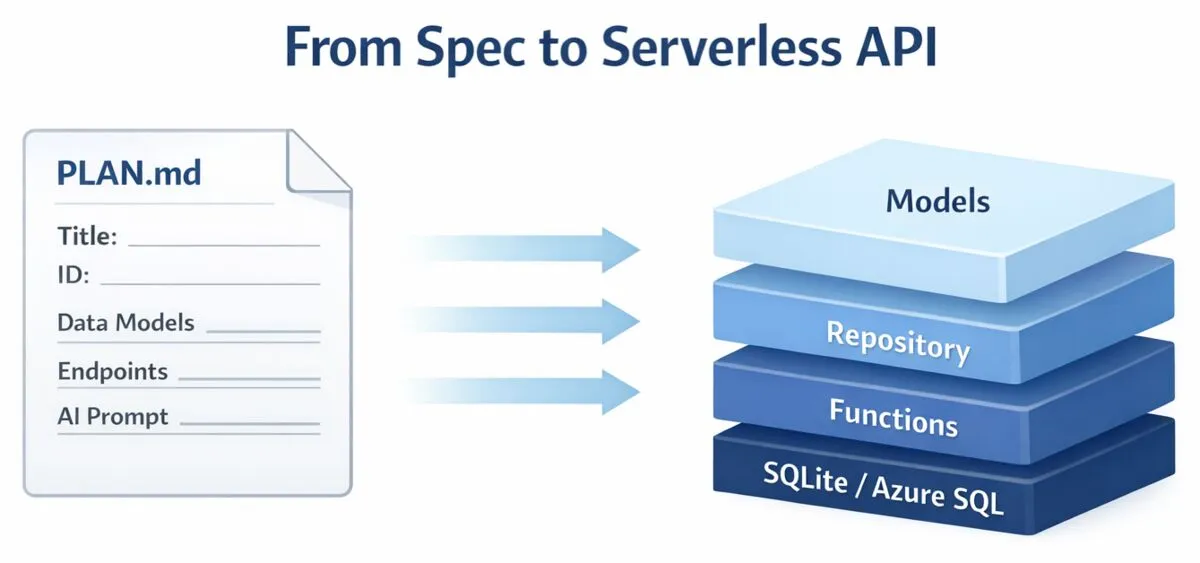
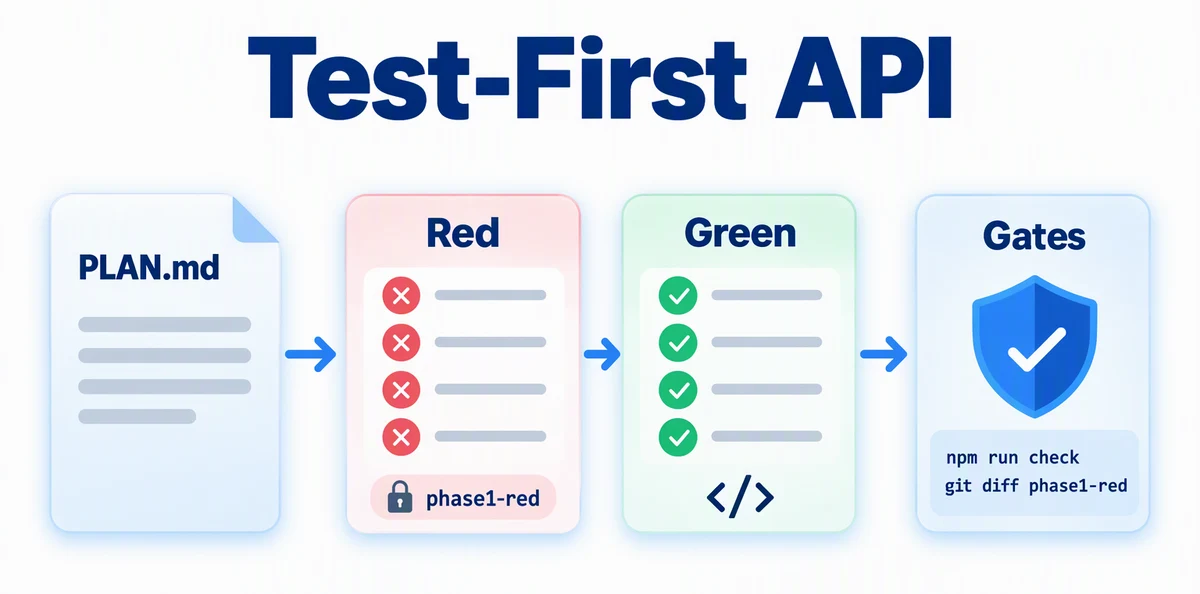
SmartTodo README: add journey loop, stacked PRs, knowledge ladder, and factory images
- Replace the text loop and stack diagrams with images
- New test-first Phase 1 banner (the old one showed SQLite locally)
- Phase 4 banner for the factory; knowledge ladder replaces the table

diff --git a/journeys/smart-todo/README.md b/journeys/smart-todo/README.md
@@ -94,9 +94,9 @@ SmartTodo is defined by a small set of linked plans. The agent reads them, and e
 
 Every phase runs the same loop:
 
-```text
-issue ─► grill the plan ─► red: failing tests ─► green: code ─► gates ─► review ─► merge
-```
+<p align="center">
+  <img src="./images/journey-loop.webp" alt="One loop, every phase: Issue, Grill the Plan, Red: Failing Tests, Green: Code, Gates, Review, Merge, and back to the next issue. The tests stay frozen between red and green." width="800" />
+</p>
 
 | You | The agent |
 | --- | --- |
@@ -128,9 +128,9 @@ Prompts that say "Use the tdd-builder agent" or "Use the grill-plan skill" load 
 
 **Phases 1 to 3 are one stack of pull requests.** They depend on each other, so they ship as a [GitHub stack](./PLAN.md#stacked-pull-requests):
 
-```text
-main ← phase-1-api ← phase-2-ios ← phase-3-azure
-```
+<p align="center">
+  <img src="./images/stacked-prs.webp" alt="One stack, one merge: Phase 1: API, Phase 2: iOS app, and Phase 3: Azure are stacked pull requests on top of main. One gh stack merge lands them as three commits on main." width="700" />
+</p>
 
 Each pull request shows only its own phase's changes, and you can start the next phase while the last one is in review. `gh stack` creates the layers, opens their pull requests, and merges them. Phase 4 uses ordinary pull requests.
 
@@ -218,7 +218,7 @@ Open the issues on GitHub. Note the numbers for Phase 1, 2, and 3. The prompts b
 ## Phase 1: Build the API Test-First
 
 <p align="center">
-  <img src="./images/phase1-api.webp" alt="Phase 1: Building the API" width="800" />
+  <img src="./images/phase1-api.webp" alt="Test-first API: PLAN.md becomes failing tests locked at the phase1-red tag, then code that turns them green, then gates: npm run check and git diff phase1-red" width="800" />
 </p>
 
 You'll build the Azure Functions API with Node.js and TypeScript. Locally, it uses an in-memory store and a fake AI generator, so this phase needs no database, no AI key, and no Azure resources.
@@ -566,13 +566,11 @@ Get the URL with `azd env get-value API_URL`, set `Config.apiBaseURL` to it, and
 
 **💡 What you're learning:** Knowledge moves up a ladder as it proves itself:
 
-| Form | Cost per use | Same result every time? |
-| --- | --- | --- |
-| A prompt | AI credits and your attention | No |
-| A skill (`SKILL.md`) | AI credits | More often, because the agent starts with the lessons |
-| A script (`scaffold-infra.mjs` + `check-infra.mjs`) | Free, in seconds | Yes |
+<p align="center">
+  <img src="./images/knowledge-ladder.webp" alt="Prompt, Skill, Script: a prompt discovers how to do something and costs AI credits and attention; a skill (SKILL.md) repeats it well and still costs AI credits; a script (scaffold-infra.mjs and check-infra.mjs) is free and deterministic" width="650" />
+</p>
 
-Use a prompt to discover how to do something, a skill to repeat it well, and a script once the result stops changing.
+Use a prompt to discover how to do something. It costs AI credits and your attention, and the result varies. A skill (`SKILL.md`) repeats it well, because the agent starts with the lessons. A script (`scaffold-infra.mjs` and `check-infra.mjs`) is free, runs in seconds, and gives the same result every time, so use one once the result stops changing.
 
 ### Step 7: Ship 🐙
 
@@ -597,6 +595,10 @@ gh stack sync --prune
 ---
 
 ## Phase 4: Build the Factory
+
+<p align="center">
+  <img src="./images/phase4-factory.webp" alt="The factory: an issue goes to the Copilot cloud agent, which opens a draft pull request and runs CI and review on its own. You verify on Azure and decide whether to merge." width="800" />
+</p>
 
 You ran the same loop three times by hand: issue, interview, red, green, gates, review, merge. Now you'll write that loop down so the next feature runs through it without you driving every step. Phase 4 uses ordinary pull requests, so start from `main` once all three stack layers have merged:
 
